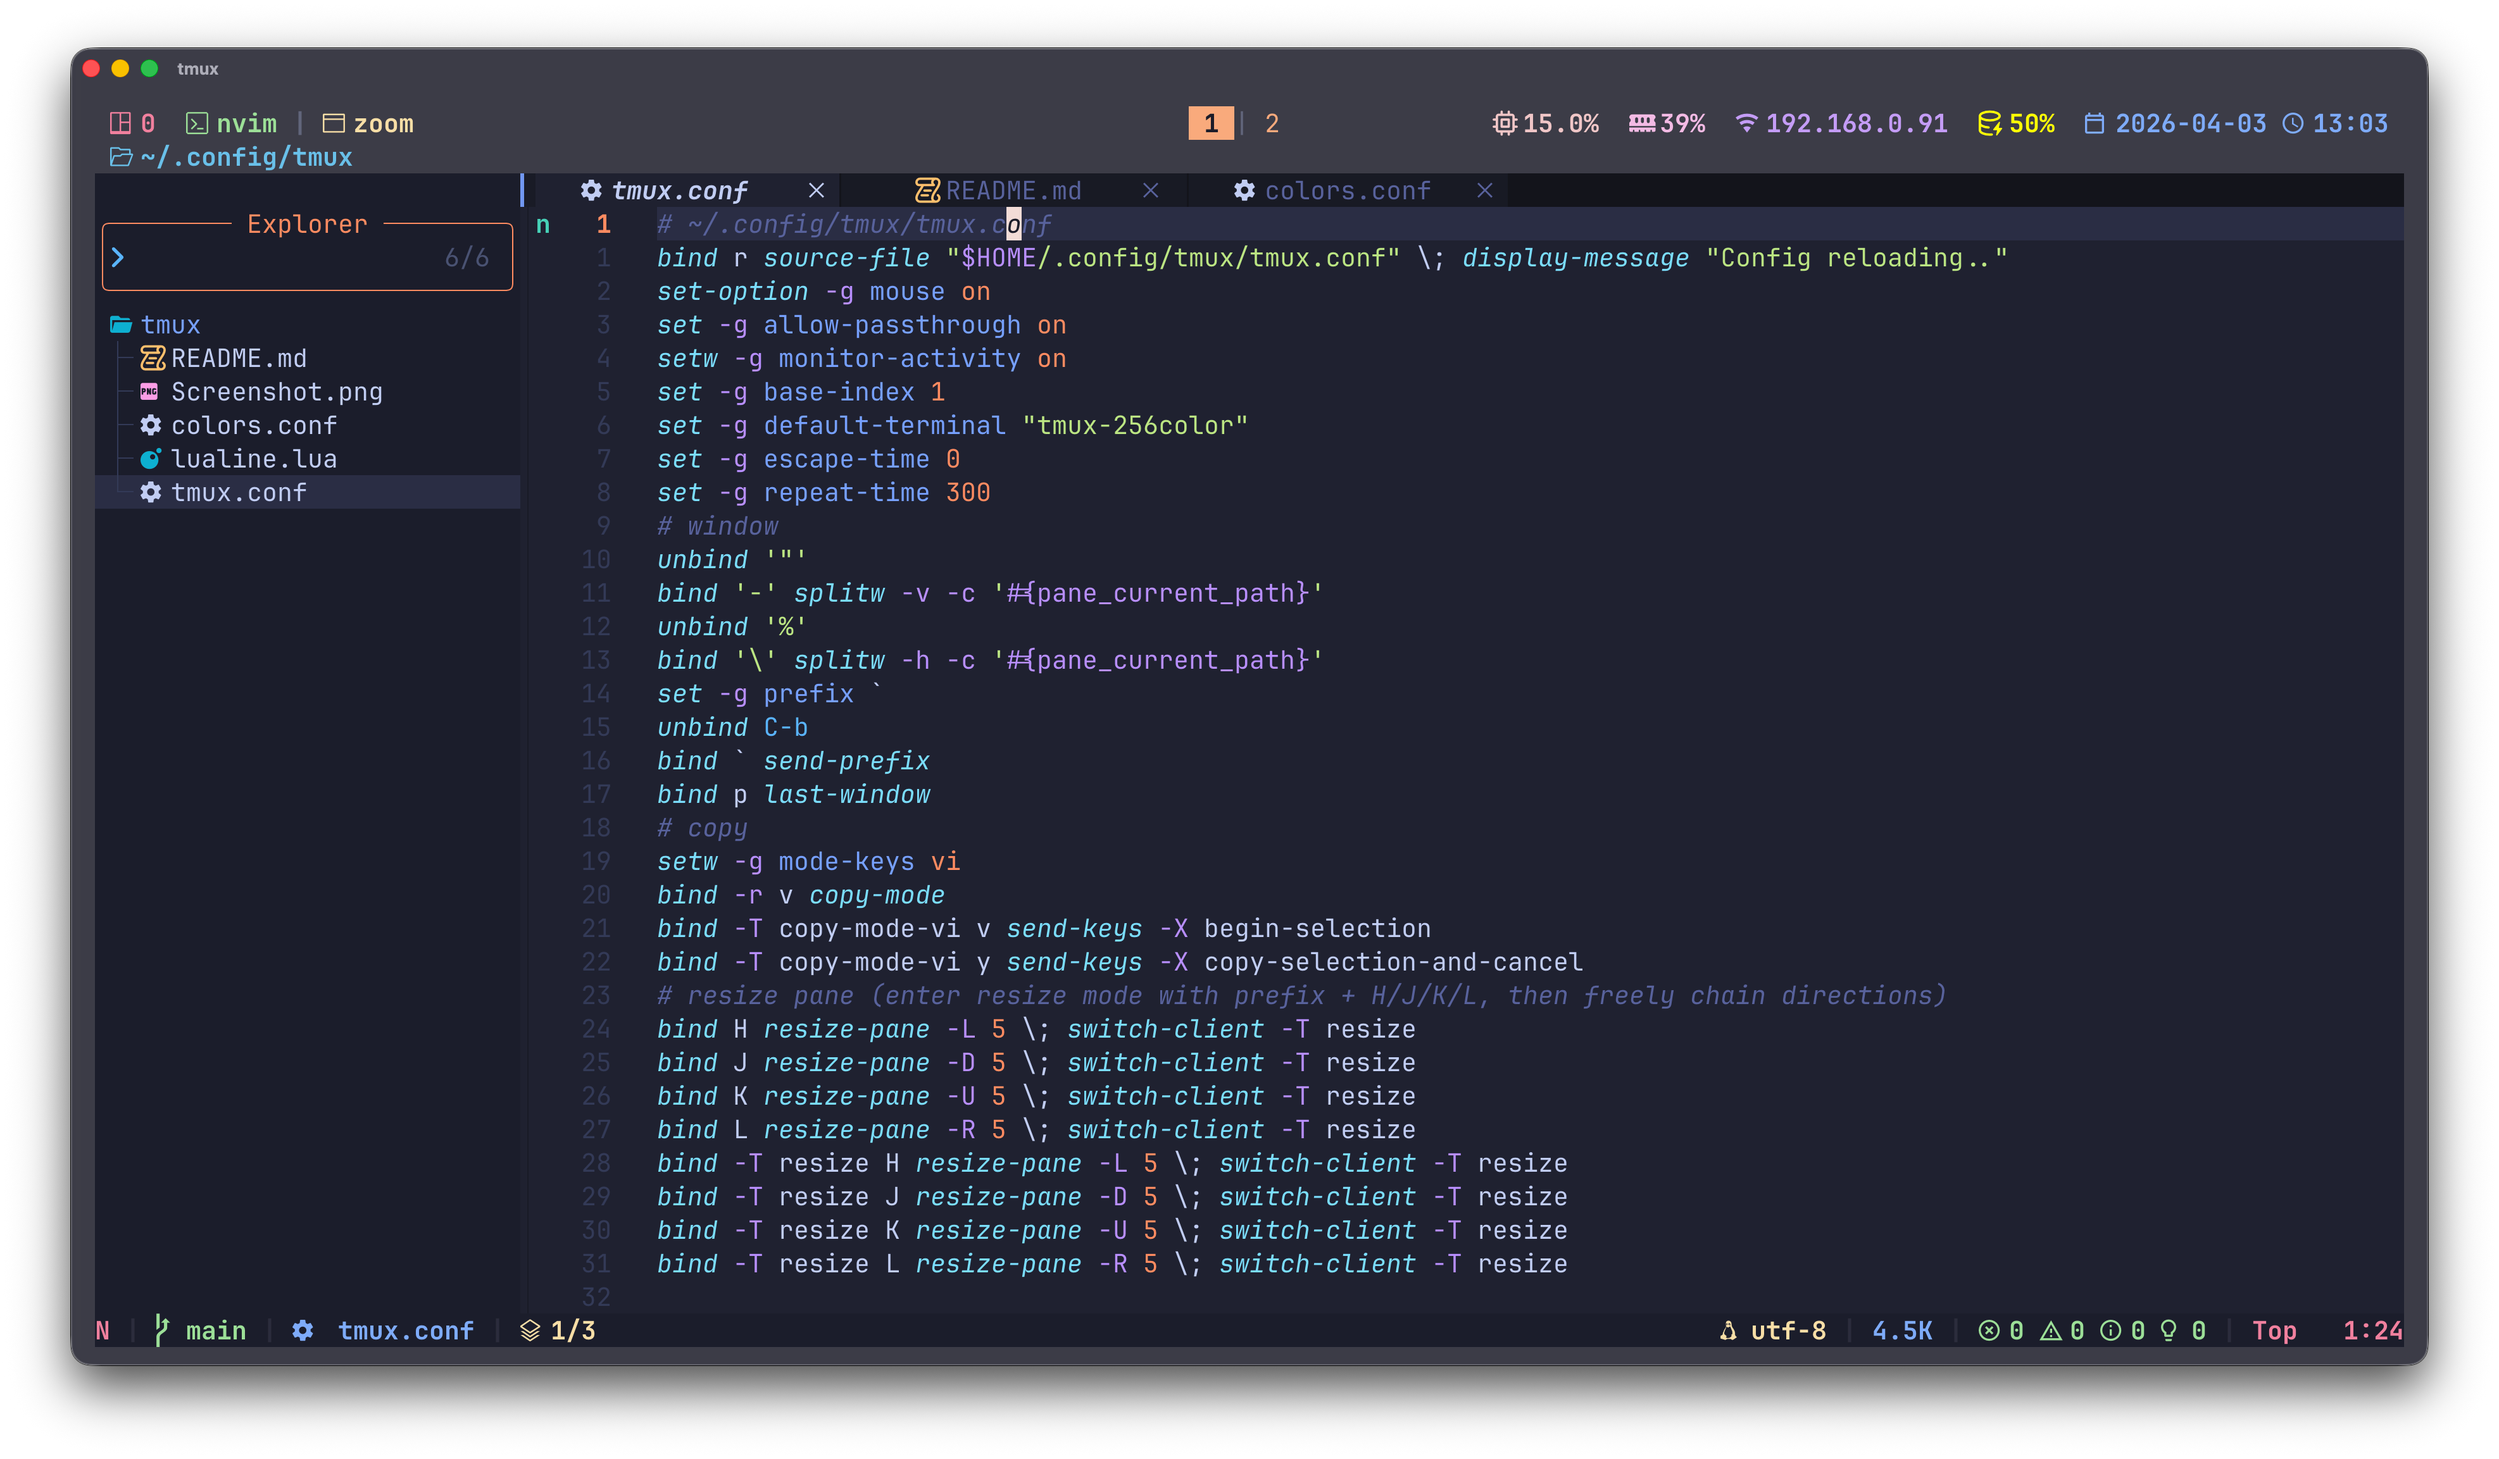
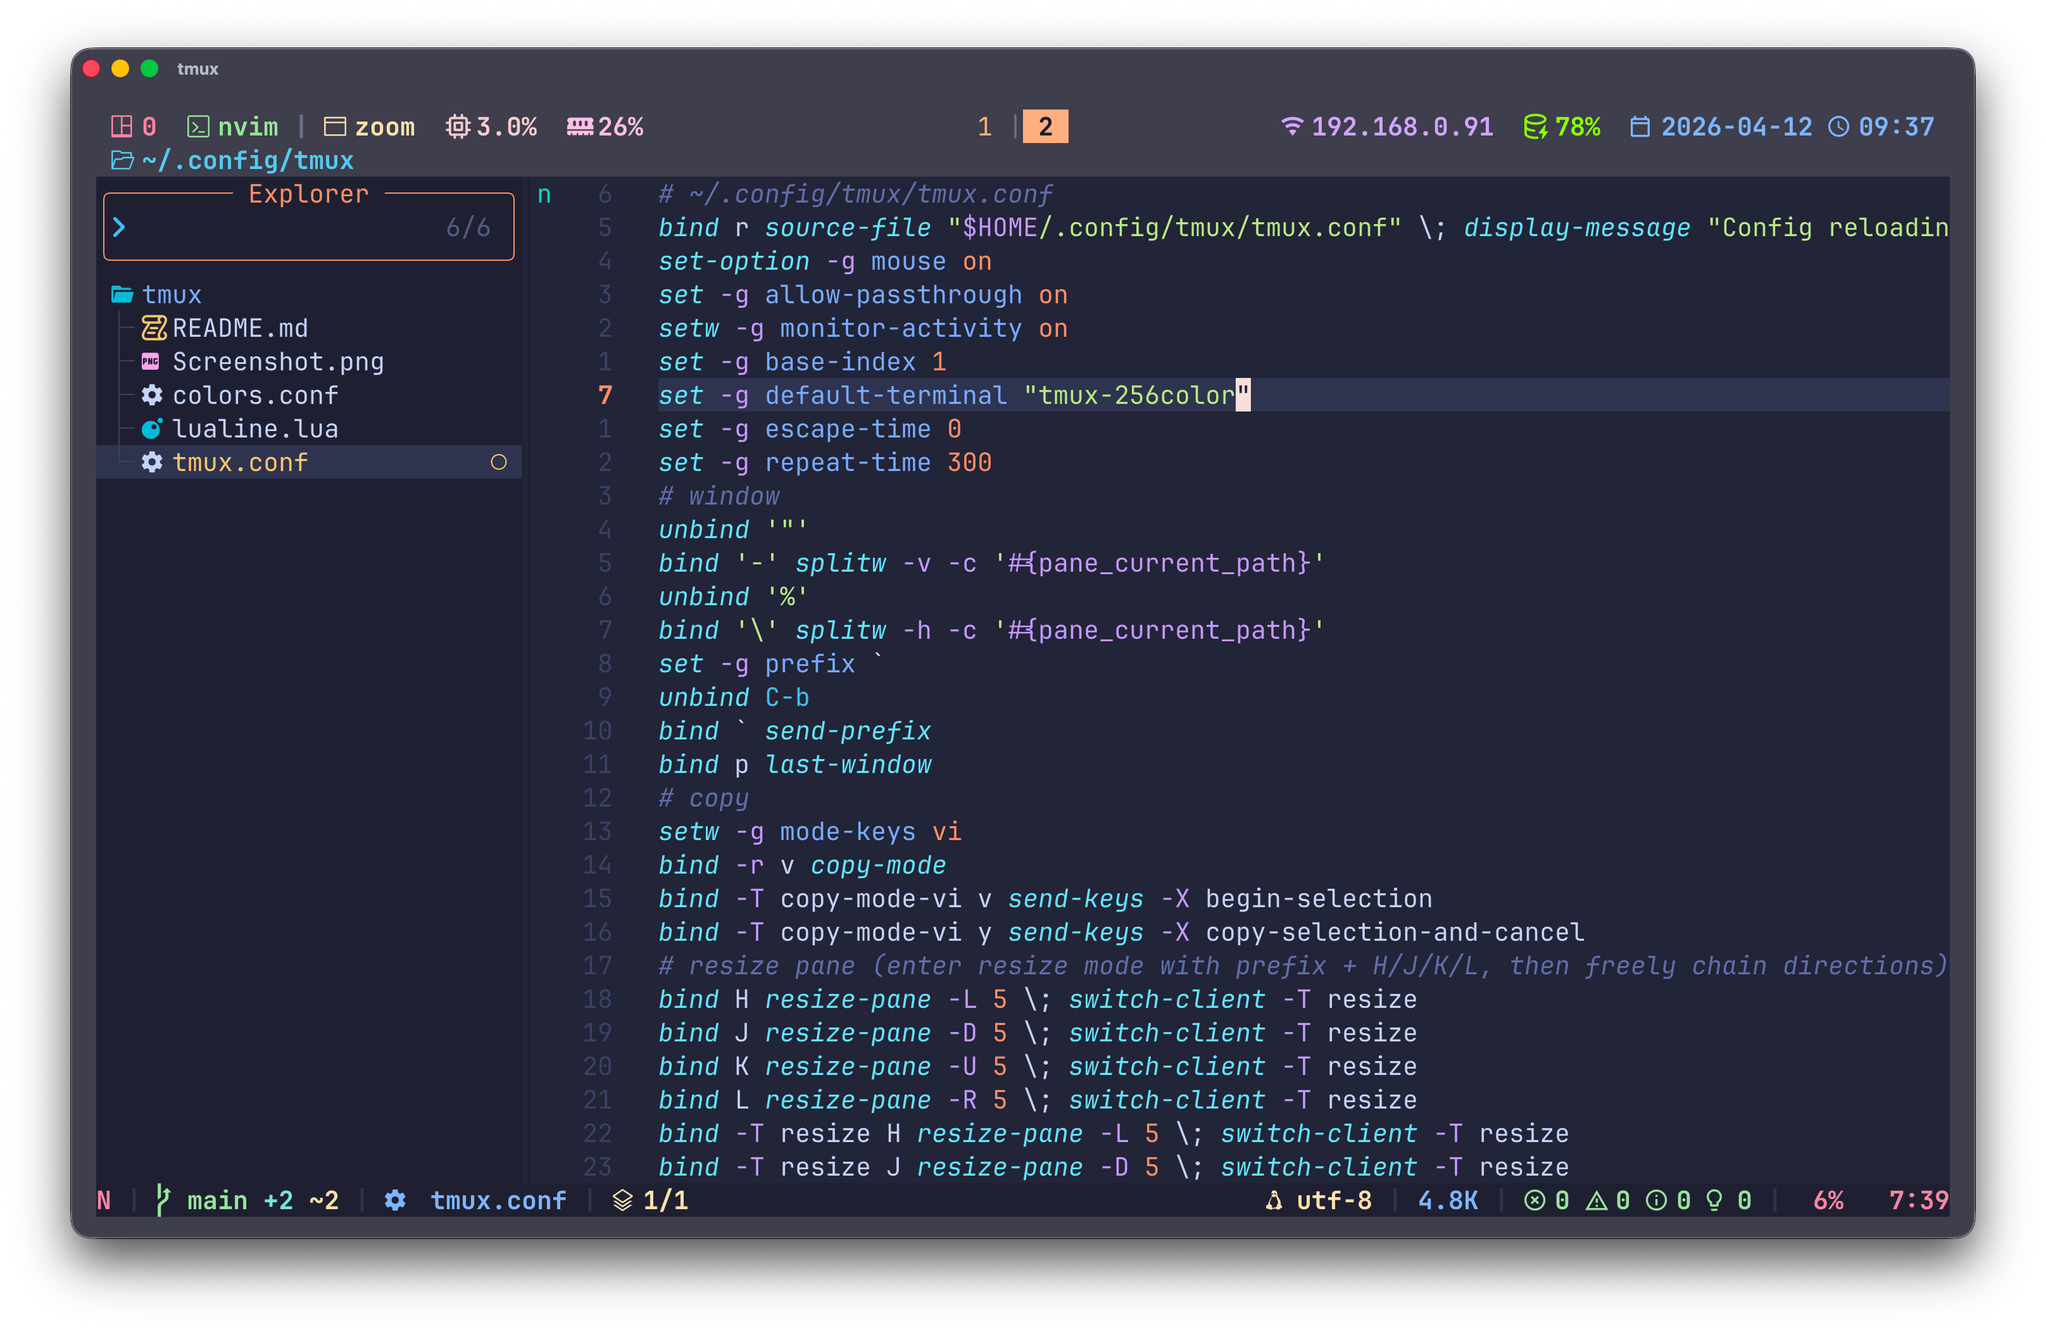
move CPU and memory to status-left and update screenshot

Changed region(s): [[0.0, 0.0309, 1.0, 0.9577]]

diff --git a/README.md b/README.md
@@ -6,7 +6,7 @@
 
 ## 截圖
 
-![Tmux 設定截圖](Screenshot.png?v=202604031304)
+![Tmux 設定截圖](Screenshot.png?v=20260412)
 
 ## 功能特色
 
@@ -22,10 +22,10 @@
 *   工作階段名稱（按下 prefix 時高亮顯示）
 *   當前執行的指令
 *   縮放狀態
-
-**第一行右側：**
 *   CPU 使用率
 *   記憶體使用率
+
+**第一行右側：**
 *   主要 IP 位址
 *   電池電量
 *   日期與時間
